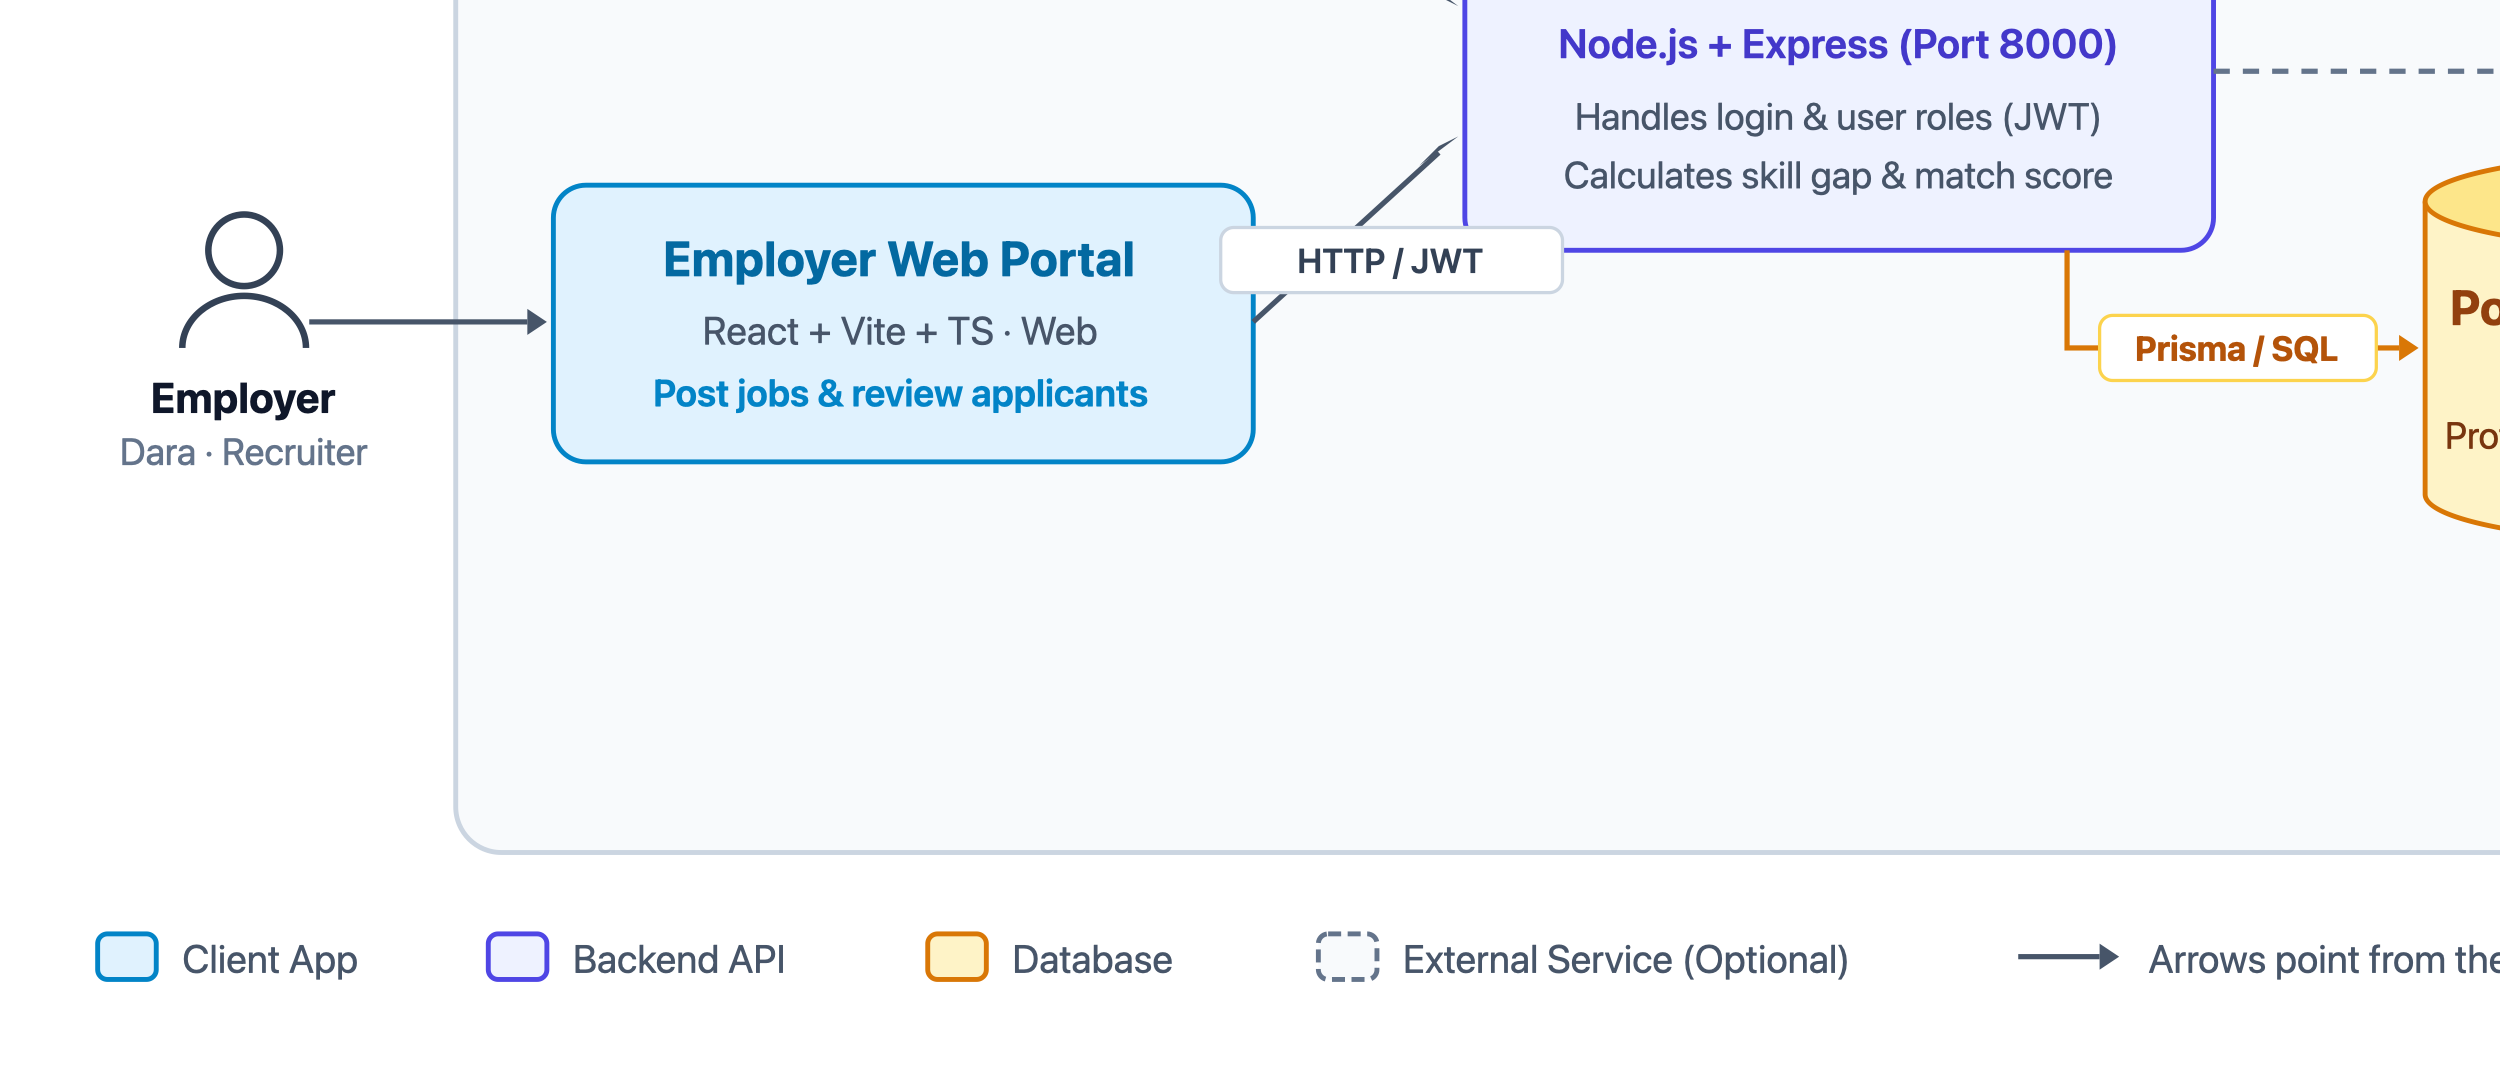
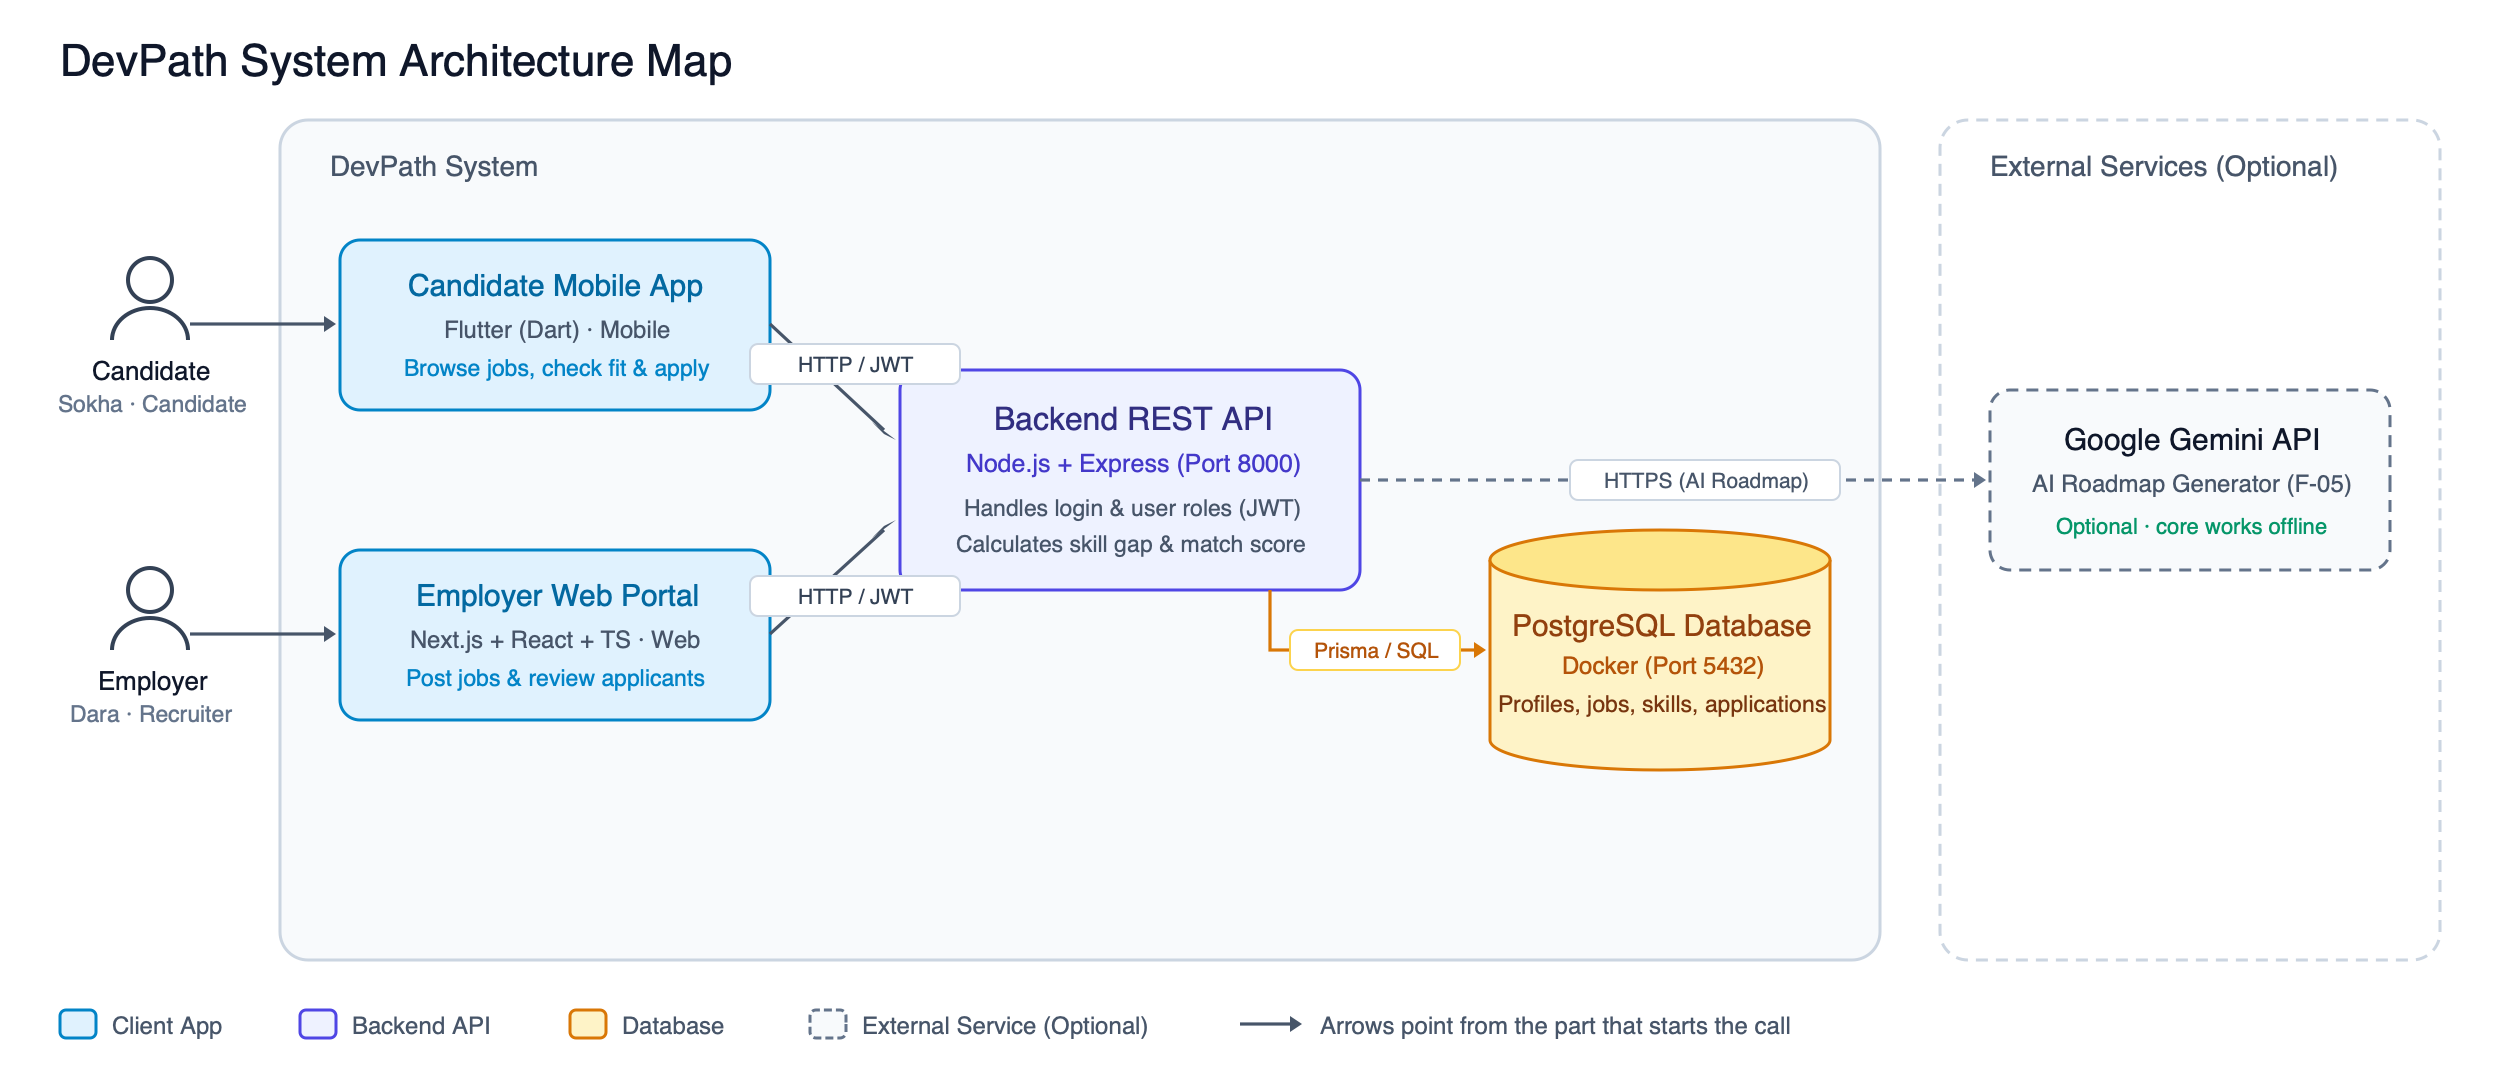
migrate employer web portal tech stack from React to Next.js

diff --git a/context/phase-03/02_system_architecture_map.md b/context/phase-03/02_system_architecture_map.md
@@ -18,7 +18,7 @@
 DevPath connects IT and Computer Science candidates looking for beginner software roles with tech recruiters who need pre-screened junior talent. 
 
 - **Candidates** use a **Flutter mobile app** on their phones to find beginner IT jobs, see their technical skill fit score, and apply.
-- **Recruiters (Employers)** use a **React web portal** on their laptops to post tech jobs with required skill tags and review applicants.
+- **Recruiters (Employers)** use a **Next.js web portal** on their laptops to post tech jobs with required skill tags and review applicants.
 - **Both clients talk to one Backend REST API** (Node.js + Express), which checks logins, calculates matching skills, and saves data to a **PostgreSQL database**.
 - **Google Gemini API** is an optional external service used only to suggest personalized study roadmaps when candidates want to learn missing skills.
 
@@ -30,7 +30,7 @@ DevPath connects IT and Computer Science candidates looking for beginner softwar
 ```mermaid
 flowchart LR
     Candidate(["Candidate<br/>(Job Seeker)"]) -->|"uses"| Mobile["Candidate Mobile App<br/>(Flutter / Dart)"]
-    Employer(["Employer<br/>(Recruiter)"]) -->|"uses"| Web["Employer Web Portal<br/>(React / TypeScript)"]
+    Employer(["Employer<br/>(Recruiter)"]) -->|"uses"| Web["Employer Web Portal<br/>(Next.js / TypeScript)"]
 
     Mobile -->|"HTTP / JWT"| API["Backend REST API<br/>(Node.js / Express :8000)"]
     Web -->|"HTTP / JWT"| API
@@ -50,7 +50,7 @@ Every box in the architecture diagram is described below:
 | Component | Responsibility | Technology | Runs when | Talks to |
 |---|---|---|---|---|
 | **Candidate Mobile App** | Mobile screen where candidates create their profile, pick their skills, browse beginner jobs, see their skill match percentage, and tap "Apply". | Flutter (v3.41.x) with Dart | When a candidate opens the app on their phone or emulator | Backend REST API (HTTP requests) |
-| **Employer Web Portal** | Desktop web dashboard where recruiters log in, create company profiles, post job openings with required skill tags, and review candidate applicants. | React (v18.x) + Vite + TypeScript | When a recruiter opens the web portal in their browser | Backend REST API (HTTP requests) |
+| **Employer Web Portal** | Desktop web dashboard where recruiters log in, create company profiles, post job openings with required skill tags, and review candidate applicants. | Next.js (v14.x) with React and TypeScript | When a recruiter opens the web portal in their browser | Backend REST API (HTTP requests) |
 | **Backend REST API** | The central brain. Validates logins (JWT), checks permissions, calculates skill gaps (comparing candidate skills vs job requirements), and saves records. | Node.js (v22.x) with Express (v4.x) & TypeScript | Continuously running on port 8000 (`http://localhost:8000/api/v1`) | PostgreSQL Database (via Prisma ORM), Google Gemini API |
 | **PostgreSQL Database** | Stores all app data: user logins, candidate profiles, company profiles, job listings, skills list, and job applications. | PostgreSQL 16 (via Docker Compose) | Continuously in Docker on port 5432 | Backend REST API only |
 | **Google Gemini API** | Generates step-by-step study recommendations for missing skills (Could-Have feature F-05). | Google AI Studio REST API | Only when a candidate taps "Generate Study Roadmap" | Backend REST API only (server-to-server) |
@@ -58,7 +58,7 @@ Every box in the architecture diagram is described below:
 ### Secrets & Database Security Policy
 
 - **Where secrets live:** All sensitive keys (the database password `DATABASE_URL`, token key `JWT_SECRET`, and optional `GEMINI_API_KEY`) live only in a `.env` file on the backend server. This file is git-ignored and never shared with the frontend apps or committed to Git.
-- **Who can reach the database:** Only the Backend REST API can connect directly to PostgreSQL. The Flutter mobile app and React web portal can never touch the database directly; they must send an authorized HTTP request to the backend.
+- **Who can reach the database:** Only the Backend REST API can connect directly to PostgreSQL. The Flutter mobile app and Next.js web portal can never touch the database directly; they must send an authorized HTTP request to the backend.
 
 ---
 

diff --git a/context/phase-03/03_database_erd.md b/context/phase-03/03_database_erd.md
@@ -32,6 +32,8 @@ erDiagram
     candidate_profiles ||--o{ candidate_skills : "possesses"
     skills ||--o{ candidate_skills : "tagged_in"
     candidate_profiles ||--o{ candidate_projects : "showcases"
+    candidate_profiles ||--o{ candidate_experiences : "gains"
+    candidate_profiles ||--o{ candidate_achievements : "earns"
     companies ||--o{ job_listings : "publishes"
     job_listings ||--o{ job_required_skills : "demands"
     skills ||--o{ job_required_skills : "required_in"
@@ -68,6 +70,33 @@ erDiagram
         string title
         string description
         string project_url
+        timestamp created_at
+        timestamp updated_at
+    }
+
+    candidate_experiences {
+        uuid id PK
+        uuid candidate_profile_id FK
+        string title
+        string company_name
+        string employment_type
+        string location
+        boolean is_current
+        date start_date
+        date end_date
+        string description
+        timestamp created_at
+        timestamp updated_at
+    }
+
+    candidate_achievements {
+        uuid id PK
+        uuid candidate_profile_id FK
+        string title
+        string issuer
+        date issue_date
+        string description
+        string certificate_url
         timestamp created_at
         timestamp updated_at
     }
@@ -201,6 +230,43 @@ Showcases academic and side projects on a candidate's profile (serving F-01).
 | `project_url` | varchar(255) | None | Yes | Public link to code repository or live demo |
 | `created_at` | timestamp | DEFAULT now() | No | Project creation timestamp |
 | `updated_at` | timestamp | DEFAULT now() | No | Project last modified timestamp |
+
+---
+
+### Table: `candidate_experiences`
+Stores professional, internship, freelance, or club technical work experience on a candidate profile (serving F-01).
+
+| Column | Data type | Constraints | Nullable | Description |
+|---|---|---|---|---|
+| `id` | uuid | PRIMARY KEY, DEFAULT gen_random_uuid() | No | Unique experience identifier |
+| `candidate_profile_id` | uuid | FK → candidate_profiles(id) ON DELETE CASCADE | No | Associated candidate profile |
+| `title` | varchar(150) | None | No | Job title or role (e.g. "Junior Web Developer Intern", "IT Club Lead") |
+| `company_name` | varchar(150) | None | No | Employing company or organization name |
+| `employment_type` | varchar(50) | CHECK (employment_type IN ('INTERNSHIP', 'PART_TIME', 'FULL_TIME', 'FREELANCE', 'VOLUNTEER')) | Yes | Work arrangement type |
+| `location` | varchar(150) | None | Yes | Office city or work location (e.g. "Phnom Penh", "Remote") |
+| `is_current` | boolean | DEFAULT false | No | Whether the candidate currently works here |
+| `start_date` | date | None | No | Start date of employment |
+| `end_date` | date | None | Yes | End date of employment (null if currently working) |
+| `description` | text | None | Yes | Key responsibilities, accomplishments, and tech used |
+| `created_at` | timestamp | DEFAULT now() | No | Experience record creation timestamp |
+| `updated_at` | timestamp | DEFAULT now() | No | Experience record last modified timestamp |
+
+---
+
+### Table: `candidate_achievements`
+Tracks certifications, hackathon awards, honors, and technical competition achievements (serving F-01).
+
+| Column | Data type | Constraints | Nullable | Description |
+|---|---|---|---|---|
+| `id` | uuid | PRIMARY KEY, DEFAULT gen_random_uuid() | No | Unique achievement identifier |
+| `candidate_profile_id` | uuid | FK → candidate_profiles(id) ON DELETE CASCADE | No | Associated candidate profile |
+| `title` | varchar(150) | None | No | Title of award or certification (e.g. "1st Place - University Hackathon") |
+| `issuer` | varchar(150) | None | No | Issuing organization or platform (e.g. "AWS", "Google", "CADT") |
+| `issue_date` | date | None | Yes | Date awarded or certified |
+| `description` | text | None | Yes | Brief description of the achievement or scope |
+| `certificate_url` | varchar(255) | None | Yes | Public verification URL, badge link, or proof |
+| `created_at` | timestamp | DEFAULT now() | No | Achievement record creation timestamp |
+| `updated_at` | timestamp | DEFAULT now() | No | Achievement record last modified timestamp |
 
 ---
 

diff --git a/context/phase-03/04_api_contracts_and_tests.md b/context/phase-03/04_api_contracts_and_tests.md
@@ -48,7 +48,7 @@
 | **EP-03** | POST | `/api/v1/auth/login` | Login and receive role-based JWT | No | UJ-01, UJ-06 |
 | **EP-04** | GET | `/api/v1/auth/me` | Fetch authenticated user identity and role | Yes | All Journeys |
 | **EP-05** | GET | `/api/v1/skills` | List standardized skill taxonomy | No | UJ-01, UJ-06, F-01 |
-| **EP-06** | GET | `/api/v1/candidate/profile` | Retrieve candidate profile, skills, and projects | Yes (Candidate) | UJ-01, F-01 |
+| **EP-06** | GET | `/api/v1/candidate/profile` | Retrieve candidate profile, skills, projects, experiences, and achievements | Yes (Candidate) | UJ-01, F-01 |
 | **EP-07** | PUT | `/api/v1/candidate/profile` | Create or update candidate profile details | Yes (Candidate) | UJ-01, F-01 |
 | **EP-08** | PUT | `/api/v1/candidate/skills` | Update candidate profile skill associations | Yes (Candidate) | UJ-01, F-01 |
 | **EP-09** | POST | `/api/v1/candidate/projects` | Add a coding or side project to candidate profile | Yes (Candidate) | UJ-01, F-01 |
@@ -65,7 +65,7 @@
 | **EP-20** | POST | `/api/v1/employer/jobs` | Publish new entry-level job with required skills | Yes (Employer) | UJ-06, F-09 |
 | **EP-21** | GET | `/api/v1/employer/jobs/:id/applications` | Review candidate applicants and match percentages | Yes (Employer) | UJ-08, F-09, F-06 |
 | **EP-22** | PATCH | `/api/v1/employer/applications/:id/status` | Update applicant status (UNDER_REVIEW / ACCEPTED) | Yes (Employer) | UJ-08, F-09 |
-| **EP-23** | GET | `/api/v1/preparation/guides` | View IT portfolio and interview guides | No | UJ-05, F-04 |
+| **EP-23** | GET | `/api/v1/candidate/guides` | View IT portfolio and interview guides tailored to candidate | Yes (Candidate) | UJ-05, F-04 |
 
 ---
 
@@ -213,6 +213,29 @@ Success response, `200 OK`:
       "title": "Mobile Shopping App",
       "description": "Candidate project built with Flutter and SQLite.",
       "projectUrl": "https://github.com/sokhapech/shop"
+    }
+  ],
+  "experiences": [
+    {
+      "id": "exp001-uuid",
+      "title": "Junior Web Developer Intern",
+      "companyName": "TechStart Solutions",
+      "employmentType": "INTERNSHIP",
+      "location": "Phnom Penh",
+      "isCurrent": false,
+      "startDate": "2025-06-01",
+      "endDate": "2025-09-01",
+      "description": "Assisted in building responsive frontend modules."
+    }
+  ],
+  "achievements": [
+    {
+      "id": "ach001-uuid",
+      "title": "1st Place - University Hackathon",
+      "issuer": "RUPP Tech Fair",
+      "issueDate": "2025-10-15",
+      "description": "Built an automated student portal in 24 hours.",
+      "certificateUrl": "https://certificates.example.com/ach001"
     }
   ]
 }
@@ -737,7 +760,10 @@ Success response, `200 OK`:
 
 ---
 
-### EP-23 — GET `/api/v1/preparation/guides`
+### EP-23 — GET `/api/v1/candidate/guides`
+
+Headers:
+* `Authorization: Bearer <candidate_jwt>`
 
 Request body: `none`
 
@@ -756,10 +782,9 @@ Success response, `200 OK`:
 
 | Error | When it happens |
 |---|---|
-| `400 VALIDATION_ERROR` | n/a |
-| `401 UNAUTHORIZED` | n/a (publicly accessible). |
-| `403 FORBIDDEN` | n/a |
-| `404 NOT_FOUND` | n/a |
+| `401 UNAUTHORIZED` | Missing or invalid candidate JWT. |
+| `403 FORBIDDEN` | User role is not `CANDIDATE`. |
+| `404 NOT_FOUND` | Candidate profile does not exist. |
 
 ---
 
@@ -796,4 +821,4 @@ Each request tests response status codes and body structures using collection va
 | **EP-20** | `EP-20 Publish Entry-Level Job Listing` | Status 201; `id` exists; `requiredSkills` is an Array |
 | **EP-21** | `EP-21 Review Job Applicants` | Status 200; response is an Array; items have `matchScore` and `candidateProfile` |
 | **EP-22** | `EP-22 Update Applicant Status` | Status 200; `status` equals `"UNDER_REVIEW"` |
-| **EP-23** | `EP-23 List Preparation Guides` | Status 200; response is an Array; items have `title` and `content` |
+| **EP-23** | `EP-23 List Preparation Guides for Candidate` | Status 200; response is an Array; items have `title` and `content` |

diff --git a/context/phase-03/01_technical_feasibility.md b/context/phase-03/01_technical_feasibility.md
@@ -19,7 +19,7 @@ Guiding questions: What do your Must-Have features need (mobile or web, schedule
 | **Backend language & framework** | Node.js (v22.x) with Express (v4.x) and TypeScript (v5.x) | Python (v3.13) + FastAPI, Dart Frog | I already know Dart from Flutter, and TypeScript works very similarly (same syntax, async/await, and classes). Express is lightweight and simple, making it easy to build the required `/api/v1` routes without getting slowed down by complicated setup. |
 | **Database** | PostgreSQL 16 (via Docker) with Prisma ORM (v5.x) | SQLite, MongoDB | DevPath needs tables linked together (Candidates, Skills, Jobs, Applications, Companies). PostgreSQL handles these links reliably. Prisma lets me query the database with clean code instead of complex SQL, making it easy to calculate missing skills (F-03) and quickly reset demo data. |
 | **Mobile Client (Candidate)** | Flutter (v3.41.x) with Dart | React Native / Expo | I already know Flutter, so I can build a polished mobile app quickly. Since our candidate persona Sokha searches for jobs on his phone, a mobile app is the most natural fit. |
-| **Web Portal Client (Employer)** | React (v18.x) with Vite and TypeScript (v5.x) | Flutter Web, Next.js | Recruiters work on laptops/desktops where web portals are standard for posting jobs and reviewing applicants. Using React with Vite is lightweight, fast to build, and shares TypeScript with our Node.js backend. |
+| **Web Portal Client (Employer)** | Next.js (v14.x) with React and TypeScript (v5.x) | Vite + React, Flutter Web | Recruiters work on laptops/desktops where web portals are standard for posting jobs and reviewing applicants. Next.js provides a production-ready framework with file-based routing, excellent developer experience, and shares TypeScript with our Node.js backend. |
 | **Authentication** | JSON Web Tokens (JWT) with bcrypt | Firebase Auth, Supabase Auth | It runs completely inside our app without relying on third-party services like Firebase. Supports role-based claims (`CANDIDATE` and `EMPLOYER`) and works 100% offline during my defense presentation with no network risk. |
 | **API testing tool** | Postman (v11.x) | Bruno, Insomnia | It has an easy visual interface to test all endpoints before building mobile and web screens. I can easily save and export the test collection into `api-specs/` for my advisor to review. |
 | **Hosting / running locally** | Local Node.js runtime (API on port 8000) & Docker Compose (PostgreSQL 16) | SQLite without Docker, Cloud PaaS (Render) | Docker lets me run PostgreSQL with a single command (`docker compose up -d`) without messy installations on my laptop. Node runs the API directly on port 8000. |

diff --git a/AGENTS.md b/AGENTS.md
@@ -25,7 +25,7 @@ This is a solo Bachelor capstone monorepo. The student's planning documents in `
 
 - **Backend:** Node.js (v22.x), Express (v4.x), TypeScript (v5.x), Prisma ORM (v5.x)
 - **Database:** PostgreSQL 16 (via Docker Compose)
-- **Clients:** Flutter (v3.41.x) with Dart (Candidate Mobile) & React (v18.x) + Vite + TypeScript (Employer Web Portal)
+- **Clients:** Flutter (v3.41.x) with Dart (Candidate Mobile) & Next.js (v14.x) + React + TypeScript (Employer Web Portal)
 - **Authentication:** JWT with bcrypt (`Authorization: Bearer <token>`)
 - **API Spec & Testing:** Postman collection in `api-specs/`
 - **Conventions:** API on port 8000, route prefix `/api/v1`, health check `GET /api/v1/health`
